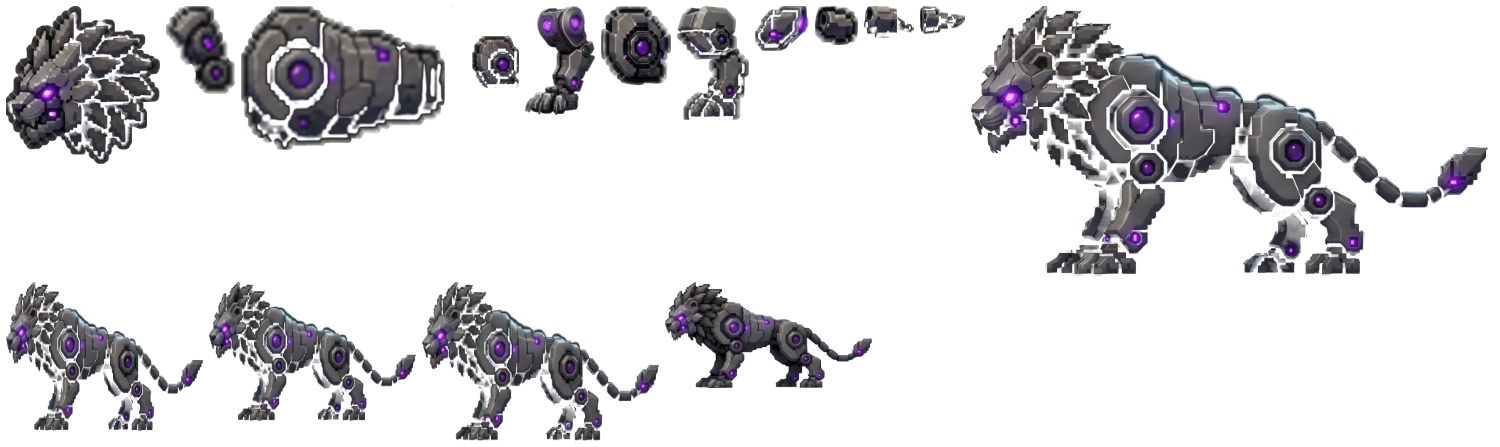
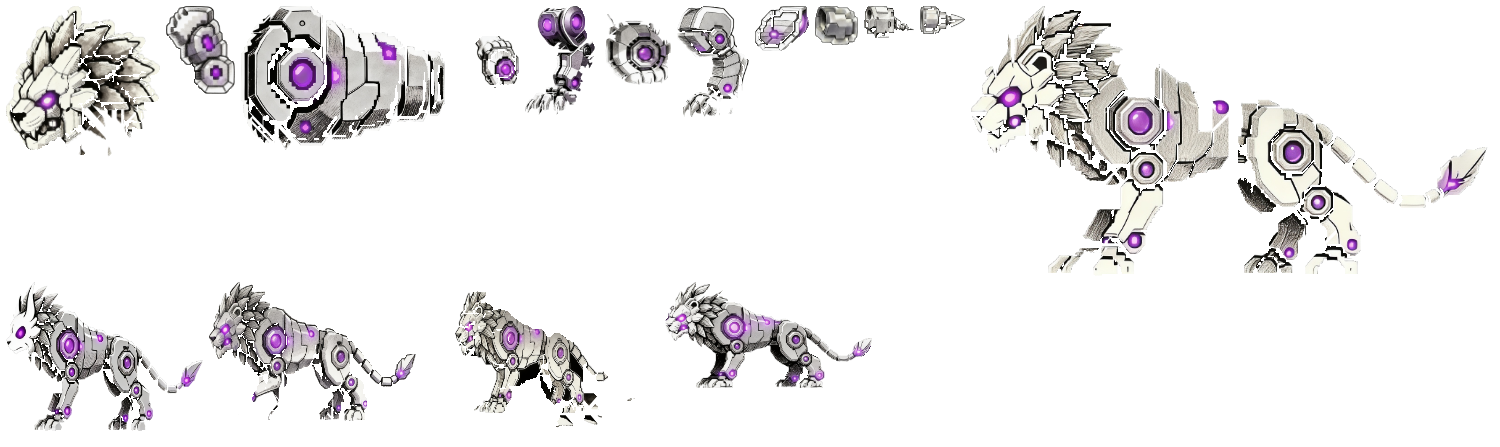
NULLFANG redrawn, and the rig kept by construction
The guardians address their atlas by absolute pixel rect, so a restyled part
that comes back four pixels taller is not scaled — it is drawn from the same
rect and the animal comes apart at the neck. Prompting cannot promise that, so
rigpaste makes the promise mechanically: fit the restyled part's box onto the
box the original occupied, then clip it to the original silhouette. Whatever
the generator did to scale, position or outline is undone, and the new contour
lands a pixel inside the old edge rather than on it.

Both rig tools measure what 'empty' means on each sheet instead of assuming.
These atlases are not all the same: some are alpha-cut, some are opaque with
black between the parts, and the wrong test fails in opposite directions — an
alpha test on an opaque sheet calls every pixel part of the creature, a tone
test on an alpha sheet eats every dark plate it has. Assuming opaque put a
black box around all sixteen of NULLFANG's parts.

Verified in the game rather than on the sheet: bossshot calls the boss's own
draw() in its own room, which is what catches a head that no longer meets its
neck. It draws to a bare canvas because the first version photographed the room
and returned four frames of a tutorial panel.

artbible, tells, daze, bosspace, lowres and platform are green — lowres
included, which re-derives from source that no rect-addressed sheet gets a
small copy and still finds all six guardian files.
[…]

Changed region(s): [[0.0, 0.0, 1.0, 0.6107], [0.0, 0.6398, 0.5827, 0.9888]]

diff --git a/index.html b/index.html
@@ -225,7 +225,7 @@
 })();
 </script>
 
-<script>window.BUILD_ID="msz3evco";window.GAME_LOCK="robo";window.MUS_FILES={"ambient_observing_the_star":"assets/music/ambient_observing_the_star.ogg","epic_combat":"assets/music/epic_combat.ogg","mus_alpha":"assets/music/mus_alpha.m4a","mus_alphatame":"assets/music/mus_alphatame.m4a","mus_archives":"assets/music/mus_archives.m4a","mus_boss":"assets/music/mus_boss.m4a","mus_cache":"assets/music/mus_cache.m4a","mus_conduits":"assets/music/mus_conduits.m4a","mus_ending":"assets/music/mus_ending.m4a","mus_eye":"assets/music/mus_eye.m4a","mus_foundry":"assets/music/mus_foundry.m4a","mus_furnace":"assets/music/mus_furnace.m4a","mus_glaciere":"assets/music/mus_glaciere.m4a","mus_intro":"assets/music/mus_intro.m4a","mus_meadows":"assets/music/mus_meadows.m4a","mus_mother":"assets/music/mus_mother.m4a","mus_nest":"assets/music/mus_nest.m4a","mus_nullfang":"assets/music/mus_nullfang.m4a","mus_prism":"assets/music/mus_prism.m4a","mus_talonhost":"assets/music/mus_talonhost.m4a","mus_title":"assets/music/mus_title.m4a"};window.VID_FILES={"end_atlas":"assets/video/end_atlas.mp4","end_brood":"assets/video/end_brood.mp4","end_close":"assets/video/end_close.mp4","end_folk":"assets/video/end_folk.mp4","end_glitch":"assets/video/end_glitch.mp4","end_mother":"assets/video/end_mother.mp4","end_open":"assets/video/end_open.mp4","end_prism":"assets/video/end_prism.mp4","end_zero":"assets/video/end_zero.mp4","intro1":"assets/video/intro1.mp4","intro2":"assets/video/intro2.mp4","intro3":"assets/video/intro3.mp4","intro4":"assets/video/intro4.mp4","intro5":"assets/video/intro5.mp4","intro6":"assets/video/intro6.mp4","intro7":"assets/video/intro7.mp4","intro8":"assets/video/intro8.mp4","purify_atlas":"assets/video/purify_atlas.mp4","purify_brood":"assets/video/purify_brood.mp4","purify_glitch":"assets/video/purify_glitch.mp4","purify_prism":"assets/video/purify_prism.mp4","purify_zero":"assets/video/purify_zero.mp4","sword_forge":"assets/video/sword_forge.mp4","sword_gift":"assets/video/sword_gift.mp4"};window.VID_ALT={"end_atlas":"assets/video/end_atlas.webm","end_brood":"assets/video/end_brood.webm","end_close":"assets/video/end_close.webm","end_folk":"assets/video/end_folk.webm","end_glitch":"assets/video/end_glitch.webm","end_mother":"assets/video/end_mother.webm","end_open":"assets/video/end_open.webm","end_prism":"assets/video/end_prism.webm","end_zero":"assets/video/end_zero.webm","intro1":"assets/video/intro1.webm","intro2":"assets/video/intro2.webm","intro3":"assets/video/intro3.webm","intro4":"assets/video/intro4.webm","intro5":"assets/video/intro5.webm","intro6":"assets/video/intro6.webm","intro7":"assets/video/intro7.webm","intro8":"assets/video/intro8.webm","purify_atlas":"assets/video/purify_atlas.webm","purify_brood":"assets/video/purify_brood.webm","purify_glitch":"assets/video/purify_glitch.webm","purify_prism":"assets/video/purify_prism.webm","purify_zero":"assets/video/purify_zero.webm","sword_forge":"assets/video/sword_forge.webm","sword_gift":"assets/video/sword_gift.webm"};window.VID_LIGHT={
+<script>window.BUILD_ID="mszqzs79";window.GAME_LOCK="robo";window.MUS_FILES={"ambient_observing_the_star":"assets/music/ambient_observing_the_star.ogg","epic_combat":"assets/music/epic_combat.ogg","mus_alpha":"assets/music/mus_alpha.m4a","mus_alphatame":"assets/music/mus_alphatame.m4a","mus_archives":"assets/music/mus_archives.m4a","mus_boss":"assets/music/mus_boss.m4a","mus_cache":"assets/music/mus_cache.m4a","mus_conduits":"assets/music/mus_conduits.m4a","mus_ending":"assets/music/mus_ending.m4a","mus_eye":"assets/music/mus_eye.m4a","mus_foundry":"assets/music/mus_foundry.m4a","mus_furnace":"assets/music/mus_furnace.m4a","mus_glaciere":"assets/music/mus_glaciere.m4a","mus_intro":"assets/music/mus_intro.m4a","mus_meadows":"assets/music/mus_meadows.m4a","mus_mother":"assets/music/mus_mother.m4a","mus_nest":"assets/music/mus_nest.m4a","mus_nullfang":"assets/music/mus_nullfang.m4a","mus_prism":"assets/music/mus_prism.m4a","mus_talonhost":"assets/music/mus_talonhost.m4a","mus_title":"assets/music/mus_title.m4a"};window.VID_FILES={"end_atlas":"assets/video/end_atlas.mp4","end_brood":"assets/video/end_brood.mp4","end_close":"assets/video/end_close.mp4","end_folk":"assets/video/end_folk.mp4","end_glitch":"assets/video/end_glitch.mp4","end_mother":"assets/video/end_mother.mp4","end_open":"assets/video/end_open.mp4","end_prism":"assets/video/end_prism.mp4","end_zero":"assets/video/end_zero.mp4","intro1":"assets/video/intro1.mp4","intro2":"assets/video/intro2.mp4","intro3":"assets/video/intro3.mp4","intro4":"assets/video/intro4.mp4","intro5":"assets/video/intro5.mp4","intro6":"assets/video/intro6.mp4","intro7":"assets/video/intro7.mp4","intro8":"assets/video/intro8.mp4","purify_atlas":"assets/video/purify_atlas.mp4","purify_brood":"assets/video/purify_brood.mp4","purify_glitch":"assets/video/purify_glitch.mp4","purify_prism":"assets/video/purify_prism.mp4","purify_zero":"assets/video/purify_zero.mp4","sword_forge":"assets/video/sword_forge.mp4","sword_gift":"assets/video/sword_gift.mp4"};window.VID_ALT={"end_atlas":"assets/video/end_atlas.webm","end_brood":"assets/video/end_brood.webm","end_close":"assets/video/end_close.webm","end_folk":"assets/video/end_folk.webm","end_glitch":"assets/video/end_glitch.webm","end_mother":"assets/video/end_mother.webm","end_open":"assets/video/end_open.webm","end_prism":"assets/video/end_prism.webm","end_zero":"assets/video/end_zero.webm","intro1":"assets/video/intro1.webm","intro2":"assets/video/intro2.webm","intro3":"assets/video/intro3.webm","intro4":"assets/video/intro4.webm","intro5":"assets/video/intro5.webm","intro6":"assets/video/intro6.webm","intro7":"assets/video/intro7.webm","intro8":"assets/video/intro8.webm","purify_atlas":"assets/video/purify_atlas.webm","purify_brood":"assets/video/purify_brood.webm","purify_glitch":"assets/video/purify_glitch.webm","purify_prism":"assets/video/purify_prism.webm","purify_zero":"assets/video/purify_zero.webm","sword_forge":"assets/video/sword_forge.webm","sword_gift":"assets/video/sword_gift.webm"};window.VID_LIGHT={
  "end_atlas": "assets/video/light/end_atlas.mp4",
  "end_brood": "assets/video/light/end_brood.mp4",
  "end_close": "assets/video/light/end_close.mp4",

diff --git a/odyssey.html b/odyssey.html
@@ -225,7 +225,7 @@
 })();
 </script>
 
-<script>window.BUILD_ID="msz3evco";window.GAME_LOCK="hero";window.MUS_FILES={"ambient_observing_the_star":"assets/music/ambient_observing_the_star.ogg","epic_combat":"assets/music/epic_combat.ogg","mus_alpha":"assets/music/mus_alpha.m4a","mus_alphatame":"assets/music/mus_alphatame.m4a","mus_archives":"assets/music/mus_archives.m4a","mus_boss":"assets/music/mus_boss.m4a","mus_cache":"assets/music/mus_cache.m4a","mus_conduits":"assets/music/mus_conduits.m4a","mus_ending":"assets/music/mus_ending.m4a","mus_eye":"assets/music/mus_eye.m4a","mus_foundry":"assets/music/mus_foundry.m4a","mus_furnace":"assets/music/mus_furnace.m4a","mus_glaciere":"assets/music/mus_glaciere.m4a","mus_intro":"assets/music/mus_intro.m4a","mus_meadows":"assets/music/mus_meadows.m4a","mus_mother":"assets/music/mus_mother.m4a","mus_nest":"assets/music/mus_nest.m4a","mus_nullfang":"assets/music/mus_nullfang.m4a","mus_prism":"assets/music/mus_prism.m4a","mus_talonhost":"assets/music/mus_talonhost.m4a","mus_title":"assets/music/mus_title.m4a"};window.VID_FILES={"end_atlas":"assets/video/end_atlas.mp4","end_brood":"assets/video/end_brood.mp4","end_close":"assets/video/end_close.mp4","end_folk":"assets/video/end_folk.mp4","end_glitch":"assets/video/end_glitch.mp4","end_mother":"assets/video/end_mother.mp4","end_open":"assets/video/end_open.mp4","end_prism":"assets/video/end_prism.mp4","end_zero":"assets/video/end_zero.mp4","intro1":"assets/video/intro1.mp4","intro2":"assets/video/intro2.mp4","intro3":"assets/video/intro3.mp4","intro4":"assets/video/intro4.mp4","intro5":"assets/video/intro5.mp4","intro6":"assets/video/intro6.mp4","intro7":"assets/video/intro7.mp4","intro8":"assets/video/intro8.mp4","purify_atlas":"assets/video/purify_atlas.mp4","purify_brood":"assets/video/purify_brood.mp4","purify_glitch":"assets/video/purify_glitch.mp4","purify_prism":"assets/video/purify_prism.mp4","purify_zero":"assets/video/purify_zero.mp4","sword_forge":"assets/video/sword_forge.mp4","sword_gift":"assets/video/sword_gift.mp4"};window.VID_ALT={"end_atlas":"assets/video/end_atlas.webm","end_brood":"assets/video/end_brood.webm","end_close":"assets/video/end_close.webm","end_folk":"assets/video/end_folk.webm","end_glitch":"assets/video/end_glitch.webm","end_mother":"assets/video/end_mother.webm","end_open":"assets/video/end_open.webm","end_prism":"assets/video/end_prism.webm","end_zero":"assets/video/end_zero.webm","intro1":"assets/video/intro1.webm","intro2":"assets/video/intro2.webm","intro3":"assets/video/intro3.webm","intro4":"assets/video/intro4.webm","intro5":"assets/video/intro5.webm","intro6":"assets/video/intro6.webm","intro7":"assets/video/intro7.webm","intro8":"assets/video/intro8.webm","purify_atlas":"assets/video/purify_atlas.webm","purify_brood":"assets/video/purify_brood.webm","purify_glitch":"assets/video/purify_glitch.webm","purify_prism":"assets/video/purify_prism.webm","purify_zero":"assets/video/purify_zero.webm","sword_forge":"assets/video/sword_forge.webm","sword_gift":"assets/video/sword_gift.webm"};window.VID_LIGHT={
+<script>window.BUILD_ID="mszqzs79";window.GAME_LOCK="hero";window.MUS_FILES={"ambient_observing_the_star":"assets/music/ambient_observing_the_star.ogg","epic_combat":"assets/music/epic_combat.ogg","mus_alpha":"assets/music/mus_alpha.m4a","mus_alphatame":"assets/music/mus_alphatame.m4a","mus_archives":"assets/music/mus_archives.m4a","mus_boss":"assets/music/mus_boss.m4a","mus_cache":"assets/music/mus_cache.m4a","mus_conduits":"assets/music/mus_conduits.m4a","mus_ending":"assets/music/mus_ending.m4a","mus_eye":"assets/music/mus_eye.m4a","mus_foundry":"assets/music/mus_foundry.m4a","mus_furnace":"assets/music/mus_furnace.m4a","mus_glaciere":"assets/music/mus_glaciere.m4a","mus_intro":"assets/music/mus_intro.m4a","mus_meadows":"assets/music/mus_meadows.m4a","mus_mother":"assets/music/mus_mother.m4a","mus_nest":"assets/music/mus_nest.m4a","mus_nullfang":"assets/music/mus_nullfang.m4a","mus_prism":"assets/music/mus_prism.m4a","mus_talonhost":"assets/music/mus_talonhost.m4a","mus_title":"assets/music/mus_title.m4a"};window.VID_FILES={"end_atlas":"assets/video/end_atlas.mp4","end_brood":"assets/video/end_brood.mp4","end_close":"assets/video/end_close.mp4","end_folk":"assets/video/end_folk.mp4","end_glitch":"assets/video/end_glitch.mp4","end_mother":"assets/video/end_mother.mp4","end_open":"assets/video/end_open.mp4","end_prism":"assets/video/end_prism.mp4","end_zero":"assets/video/end_zero.mp4","intro1":"assets/video/intro1.mp4","intro2":"assets/video/intro2.mp4","intro3":"assets/video/intro3.mp4","intro4":"assets/video/intro4.mp4","intro5":"assets/video/intro5.mp4","intro6":"assets/video/intro6.mp4","intro7":"assets/video/intro7.mp4","intro8":"assets/video/intro8.mp4","purify_atlas":"assets/video/purify_atlas.mp4","purify_brood":"assets/video/purify_brood.mp4","purify_glitch":"assets/video/purify_glitch.mp4","purify_prism":"assets/video/purify_prism.mp4","purify_zero":"assets/video/purify_zero.mp4","sword_forge":"assets/video/sword_forge.mp4","sword_gift":"assets/video/sword_gift.mp4"};window.VID_ALT={"end_atlas":"assets/video/end_atlas.webm","end_brood":"assets/video/end_brood.webm","end_close":"assets/video/end_close.webm","end_folk":"assets/video/end_folk.webm","end_glitch":"assets/video/end_glitch.webm","end_mother":"assets/video/end_mother.webm","end_open":"assets/video/end_open.webm","end_prism":"assets/video/end_prism.webm","end_zero":"assets/video/end_zero.webm","intro1":"assets/video/intro1.webm","intro2":"assets/video/intro2.webm","intro3":"assets/video/intro3.webm","intro4":"assets/video/intro4.webm","intro5":"assets/video/intro5.webm","intro6":"assets/video/intro6.webm","intro7":"assets/video/intro7.webm","intro8":"assets/video/intro8.webm","purify_atlas":"assets/video/purify_atlas.webm","purify_brood":"assets/video/purify_brood.webm","purify_glitch":"assets/video/purify_glitch.webm","purify_prism":"assets/video/purify_prism.webm","purify_zero":"assets/video/purify_zero.webm","sword_forge":"assets/video/sword_forge.webm","sword_gift":"assets/video/sword_gift.webm"};window.VID_LIGHT={
  "end_atlas": "assets/video/light/end_atlas.mp4",
  "end_brood": "assets/video/light/end_brood.mp4",
  "end_close": "assets/video/light/end_close.mp4",

diff --git a/DRAWN_BRANCH.md b/DRAWN_BRANCH.md
@@ -109,3 +109,44 @@ instruction NOT to add a glow those poses do not have.
 once with the composition rule as the loudest line and a demand for margin on
 all four sides, and it comes back with the chin running off the bottom edge
 every time. Everything else in the set framed correctly.
+
+## The guardians — NULLFANG done, and how the rig is kept, 2026-08-19
+
+A guardian is not a picture, it is a RIG: `BEAST_P` and its five siblings
+address the atlas by absolute pixel rect, and a head that comes back four
+pixels taller is not scaled — it is drawn from the same rect, and the animal
+comes apart at the neck. No prompt can promise that. So the promise is made
+mechanically instead, by two tools:
+
+- **`tools/rigcut.cjs`** reads the rect table out of the source itself (never a
+  copy that can drift), cuts each rect onto flat black with padding, and
+  records the part's own outline.
+- **`tools/rigpaste.cjs`** puts each restyled part back by FITTING ITS BOX to
+  the box the original occupied, then CLIPPING IT to the original silhouette.
+  Whatever the generator did to scale, position or outline is undone. The cost
+  is that the new ink contour lands a pixel inside the old edge instead of on
+  it; that is invisible at play size, and a leg four pixels out is a broken boss.
+
+Both tools MEASURE what "empty" means on the sheet rather than assuming it —
+some of these atlases are alpha-cut and some are opaque with black between the
+parts, and guessing wrong fails in opposite directions: an alpha test on an
+opaque sheet marks every pixel as part, and a tone test on an alpha sheet eats
+every dark plate the creature has. Getting this wrong the first time put an
+opaque black box around all sixteen of NULLFANG's parts.
+
+**NULLFANG is done and verified in the game**, not on the sheet:
+`docs/drawn_nullfang.png` is its own `draw()` in its own room, in four states.
+`tools/bossshot.cjs` takes that photograph, and draws to a bare canvas rather
+than screenshotting the room — the first version photographed the room and
+produced four frames of a tutorial panel with the boss behind it.
+
+Green afterwards: `artbible`, `tells`, `daze`, `bosspace`, `lowres`, `platform`.
+The lowres harness matters most here — it re-derives, from the source, that no
+sheet addressed by absolute pixel rect gets a small copy, and it still names
+all six guardian files.
+
+Fragments restyle less reliably than whole figures, and that is worth knowing
+before the next five: `full`, `aIdle`, `aWalk`, `aRoar` and `aAtk` came back
+excellent, while `body` was returned as a small whole lion and `fleg0` as a
+cylinder. The box-fit and the clip make even those usable, because what
+survives is the surface, not the shape.
